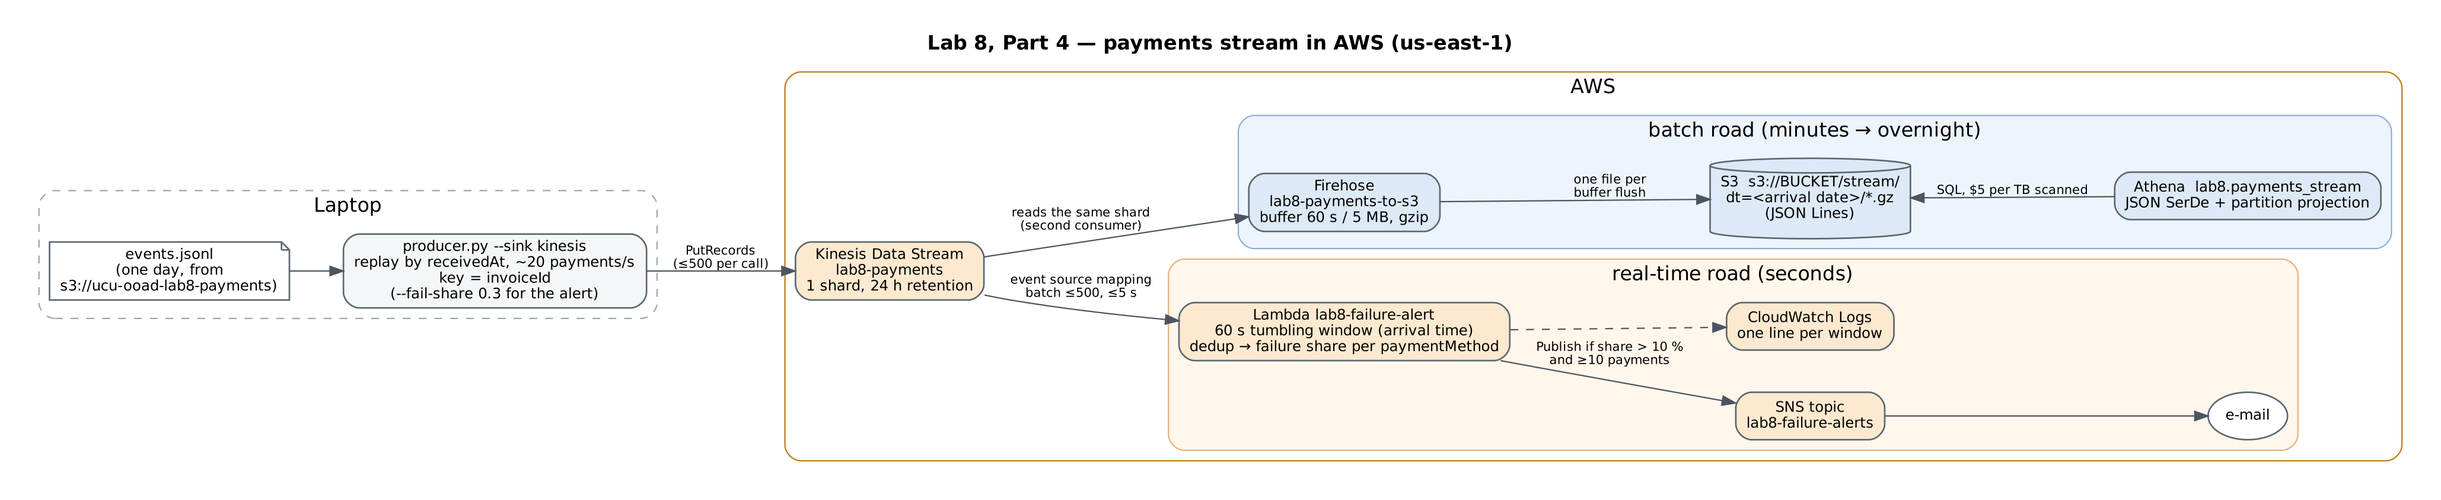
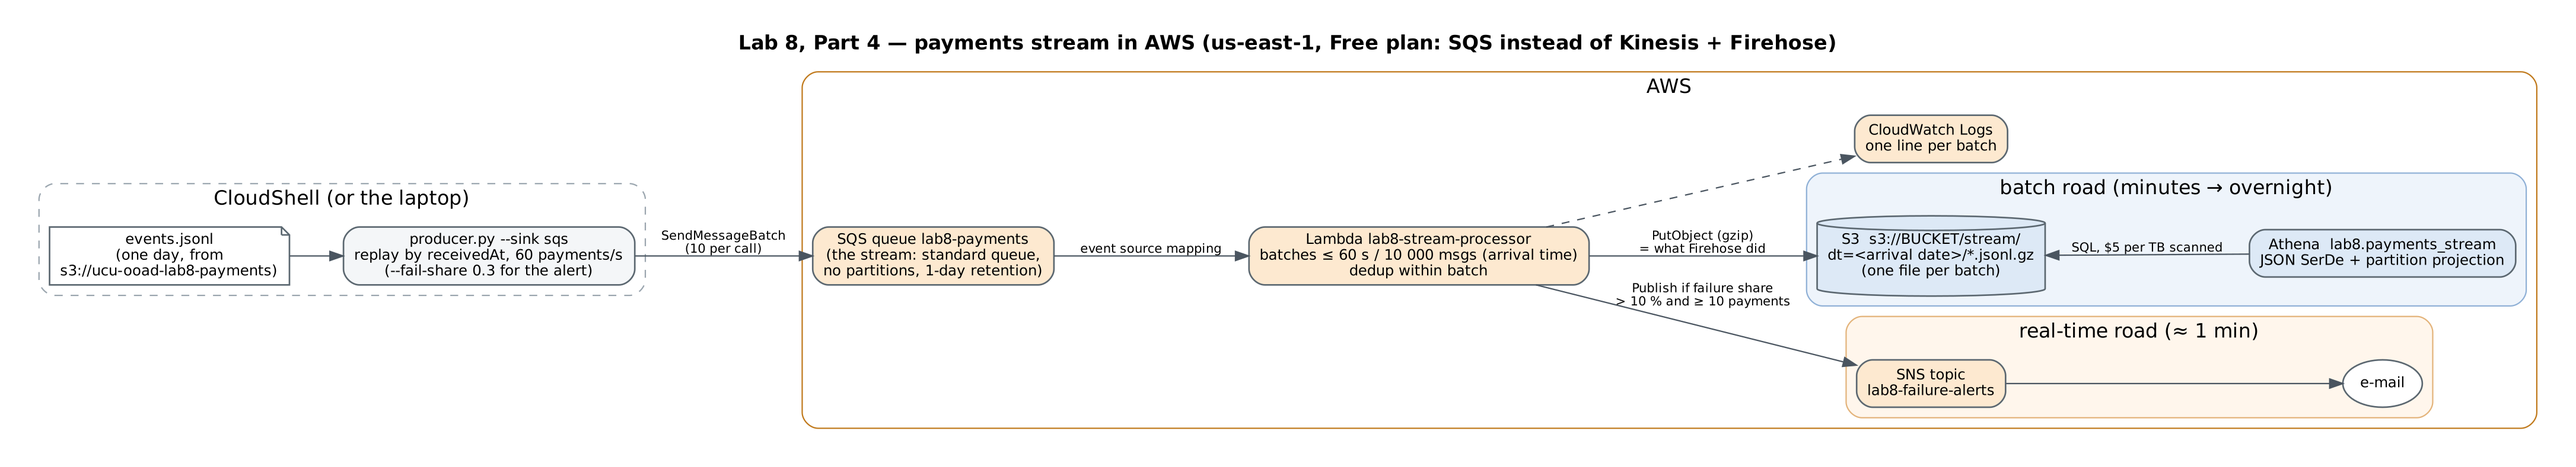
Lab 8: Part 3 and Part 4 results, Free-plan pipeline diagram

Changed region(s): [[0.0, 0.0608, 0.9951, 0.7605], [0.311, 0.7605, 0.9951, 0.943]]

diff --git a/docs/LAB8.md b/docs/LAB8.md
@@ -1,7 +1,7 @@
 # Lab 8 — Big Data on AWS: the Uklon example
 
 Two roads for the same data: **batch** (Athena + Glue over S3, answers overnight) and **stream**
-(Redpanda locally, Kinesis in the cloud, answers in seconds). Code: [`lab8/`](../lab8/).
+(Redpanda locally, SQS + Lambda in the cloud, answers in seconds). Code: [`lab8/`](../lab8/).
 Lab 8 runs in **us-east-1** (the dataset bucket is there and copying inside one region is free),
 not in eu-central-1 like the Spry stack.
 
@@ -12,8 +12,8 @@ Numbers marked _▢_ come from our own run and are filled in after it; everythin
 | Part | Files |
 |---|---|
 | 2 — batch | `lab8/athena/setup.sh` (own bucket + S3→S3 copy), `lab8/athena/sql/01…16_*.sql`, `lab8/athena/run_athena.py` (runs them, saves CSV + run time + Data scanned to `lab8/athena/results/`), `lab8/athena/crawler.sh` (Way B) |
-| 3 — local stream | `lab8/docker-compose.yml` (Redpanda + Console + `payments` topic, 3 partitions), `lab8/producer.py`, `lab8/consumer.py`, `lab8/compare_windows.py` |
-| 4 — cloud stream | `lab8/cloud/up.sh` / `down.sh`, `lab8/cloud/alert_lambda.py`, `lab8/cloud/sql/*.sql`, diagram [`docs/lab8/part4-pipeline.png`](lab8/part4-pipeline.png) (source `.dot`) |
+| 3 — local stream | `lab8/docker-compose.yml` (Redpanda + Console + `payments` topic, 3 partitions), `lab8/producer.py`, `lab8/consumer.py`, `lab8/compare_windows.py`, **`lab8/run_part3.py`** (all four experiments in one run → `lab8/data/part3/`) |
+| 4 — cloud stream | `lab8/cloud/up.sh` / `down.sh` + `stream_lambda.py` (Free plan: SQS → Lambda → S3 + SNS), `lab8/cloud/up-kinesis.sh` / `down-kinesis.sh` + `kinesis_alert_lambda.py` (the diagram's Kinesis + Firehose version, needs the Paid plan), `lab8/cloud/sql/*.sql`, **`lab8/run_part4.py`** (up → produce → Athena → down), diagram [`docs/lab8/part4-pipeline.png`](lab8/part4-pipeline.png) |
 
 ## Run sheet
 
@@ -31,14 +31,10 @@ BUCKET=$BUCKET bash lab8/athena/crawler.sh                  # Way B, prints both
 mkdir -p lab8/data
 aws s3 cp s3://ucu-ooad-lab8-payments/payments/dt=2026-10-01/events.jsonl lab8/data/ --no-sign-request
 docker compose -f lab8/docker-compose.yml up -d             # Console: http://localhost:8080
-python lab8/consumer.py --state lab8/data/state.json        # terminal 1
-python lab8/producer.py lab8/data/events.jsonl              # terminal 2 (~27 min for the whole day)
+python lab8/run_part3.py                                    # all 4 experiments, ~11 min (Docker running)
 
-# Part 4
-BUCKET=$BUCKET EMAIL=you@example.com bash lab8/cloud/up.sh
-python lab8/producer.py lab8/data/events.jsonl --sink kinesis --start 08:00 --max-events 20000
-python lab8/athena/run_athena.py --bucket $BUCKET --dir cloud/sql
-bash lab8/cloud/down.sh                                     # do not forget: shard hours
+# Part 4 (we ran it in AWS CloudShell; creates, uses and deletes everything, ~5 min)
+python lab8/run_part4.py --bucket $BUCKET --email you@example.com
 ```
 
 ---
@@ -189,40 +185,48 @@ payment land in one partition in order; `acks=all` + idempotent producer. `--fai
 30 % of successful payments (chosen by a stable hash of `invoiceId`) into failures.
 
 **Consumer** (`consumer.py`), per message: drop exact duplicates (`invoiceId|status|modifiedDate`
-seen before) → put into the one-minute window of **event time** (`modifiedDate`) → watermark = the
-newest event time seen → close windows whose end + 120 s is behind the watermark → print
+seen before) → put into the one-minute window of **event time** (`modifiedDate`) → update the
+**watermark** → close windows whose end + 120 s is behind the watermark → print
 failure / (success + failure) per `paymentMethod`, **ALERT** above 10 % (only with ≥ 10 final
 payments in that cell, otherwise one failure out of three reads as 33 %) → an event whose window
 is already closed is **late** and is rejected (counted). Offsets are committed by the consumer
 itself, on graceful stop and on rebalance.
 
-### Experiments — what to run and what we saw
+**The watermark is per partition** — the newest event time seen in each partition, and the
+overall watermark is their minimum (as in Flink). We learned this the hard way: our first version
+used one global maximum, and after a pause the consumer fetched a big batch from one partition, the
+watermark jumped minutes ahead and most events of the other two partitions were rejected as "late"
+(9 781 of 15 000). A partition that has not delivered anything yet holds the watermark at 0.
 
-1. **Stop for a minute and start again.** Ctrl+C the consumer (`--state lab8/data/state.json`):
-   it saves the open windows and the dedup set and commits its offsets. The producer keeps writing;
-   the Console shows the group's lag growing. Restart: it resumes from the committed offsets, the
-   lag drops to 0 and the final `TOTAL received` equals what the producer sent _▢_. No events lost,
-   because Kafka/Redpanda keeps a log and a consumer only moves a pointer in it. (Without `--state`
-   the log is still complete, but the counts of windows that were open at the stop are printed as
-   *partial* — the in-memory state is what a crash loses; Flink solves this with checkpoints of
-   state + offsets together.)
-2. **Two consumers in one group.** `python lab8/consumer.py` in two terminals, same `--group`.
-   Each prints `# assigned partitions [...]`: 3 partitions split 2 + 1 _▢_ (Console → Consumer
-   Groups shows the same). Each consumer now sees only its payments, so its windows hold about half
-   of the numbers; a correct global share would need a second aggregation step. Stop one — its
-   partitions move to the other after a rebalance. A third consumer still works; a fourth would be
-   idle: parallelism ≤ number of partitions.
-3. **30 % failures.** `producer.py … --fail-share 0.3`: the failure share jumps from ~6 % (Part 2:
-   6.02 %) to about 34 % (0.06 + 0.3 × 0.94), _▢_ in our run, and an `ALERT` line follows every closed window for every method
-   _▢_.
-4. **No waiting for late events.** Same topic, a fresh group, `--lateness 0 --out lateness0.csv`,
-   compared with a run with `--lateness 120 --out lateness120.csv` via `compare_windows.py`.
-   Rejected as late: _▢_ events with 120 s vs _▢_ with 0 s. Windows close as soon as the next minute
-   starts, so every event delayed past its window end is dropped: a few payments disappear from
-   _▢_ of _▢_ windows, and in a cell with 5–10 payments one missing failure moves the share by
-   10–20 points — an alert can appear or vanish. Even with 120 s, events 2–10 min late are rejected:
-   the waiting time is a trade-off between **latency** (results 2 min later) and **completeness**.
-   The batch road in Part 2 has no such trade-off — it sees every late event.
+### Experiments — what we ran and what we saw (`python lab8/run_part3.py`, output in `lab8/data/part3/`)
+
+1. **Stop for a minute and start again.** After 90 s the consumer (`--state`) was stopped: it
+   saved its open windows and dedup set and committed its offsets. The producer kept writing, and the
+   group's lag grew **919 → 1 827 → 2 739 → 3 651** messages over the next 60 s (~61 events/s, spread
+   evenly over the 3 partitions: `[1219, 1260, 1172]`). After the restart the consumer caught up,
+   the lag went back to **0**, and its total is **15 000 received = 15 000 sent**: nothing lost,
+   because Redpanda keeps the log and a consumer only moves its pointer in it. (Without `--state`
+   the log is still complete, but the counts of windows open at the stop would be printed as
+   *partial*: in-memory state is what a crash loses; Flink checkpoints state and offsets together.)
+   Also in the total: 151 duplicates dropped, 212 events (1.4 %) rejected as late — events more than
+   2 min late, close to the dataset's 2 % late events, of which part are within 2 min.
+2. **Two consumers in one group.** Both joined before data arrived; the group split the
+   partitions **[0, 1] / [2]**. With live data, A processed **4 137** events and B **1 863**
+   (6 000 sent). When B stopped, a rebalance gave A all three: `assigned partitions [0, 1, 2]`. Each
+   consumer sees only its payments, so its windows hold part of the numbers; a correct global share
+   would need a second aggregation step. Parallelism ≤ partitions: a fourth consumer would be idle.
+3. **30 % failures.** The producer turned **1 342** successful payments into failures. Failure share
+   went from ~6 % (Part 2: 6.02 %) to about 34 % (0.06 + 0.3 × 0.94; Part 4 measured 32–35 %), and
+   the consumer printed **194 ALERT lines** over 164 windows, against **48** without the injected
+   failures. Those 48 are noise: a cell with 13 card payments and 2 failures is already 15 %;
+   a real alert would need more payments per cell (a longer window or a higher `--min-count`).
+4. **No waiting for late events.** Same topic read twice, `--lateness 120` vs `--lateness 0`, compared
+   by `compare_windows.py`. Rejected as late: _▢_ events with 120 s vs _▢_ with 0 s; _▢_ of _▢_ windows
+   changed. Windows close as soon as the next minute starts, so every event delayed past its window
+   end is dropped, and in a cell with 5–10 payments one missing failure moves the share by 10–20
+   points — an alert can appear or vanish. Even with 120 s, events 2–10 min late are rejected: the
+   waiting time trades **latency** (results 2 min later) for **completeness**. The batch road in
+   Part 2 has no such trade-off — it sees every late event.
 
 **The dedup set grows without limit** (`dedup set size` in the summary ≈ every event of the day).
 In production it is Redis `SET key NX EX 3600` or Flink keyed state with a TTL: a duplicate only
@@ -235,38 +239,56 @@ traffic per hour, not by history.
 
 ![Part 4 pipeline](lab8/part4-pipeline.png)
 
-Same dataset, same producer (`--sink kinesis`). Kinesis Data Stream (1 shard) has two consumers:
-**Firehose** (batches of 60 s / 5 MB, gzip → `s3://BUCKET/stream/dt=<arrival date>/`) and a
-**Lambda** with a 60-second **tumbling window** (failure share per `paymentMethod`, `SNS` e-mail
-above 10 %). Athena reads Firehose's files through `lab8.payments_stream` (partition projection, so
-new files are queryable without a crawler). Screenshot: `cloud/sql/03_stream_failure_by_minute.sql`.
+**Kinesis and Firehose are not available on our AWS account.** It is on the AWS Free plan, and
+`CreateStream` answers `SubscriptionRequiredException` (the Free plan only offers part of the
+services; the Paid plan would be needed). So we rebuilt the diagram with Free-plan services, and the
+exact Kinesis version is in the repo too (`lab8/cloud/up-kinesis.sh`, `kinesis_alert_lambda.py`):
+
+| In the lab's diagram | What we ran instead | What it does the same, what not |
+|---|---|---|
+| Kinesis Data Stream | **SQS standard queue** `lab8-payments` | durable buffer between producer and consumers; but no partitions, no key, no order, and a message is **deleted** once processed (no replay) |
+| Firehose → S3 | the **Lambda writes each batch to S3** as one gzip JSON Lines file, `stream/dt=<arrival date>/` | same files, same Athena table; batching by Lambda (60 s), not by Firehose (60 s / 5 MB) |
+| Lambda (tumbling window) → SNS | the **same Lambda**: failure share per method over the batch → SNS e-mail | a batch ≈ up to 60 s of arrivals, like a processing-time tumbling window |
+| Athena | Athena, table `lab8.payments_stream` with partition projection | identical |
+
+**Run** (`run_part4.py`, in AWS CloudShell, 2026-10-30): the pipeline existed **5 min**. 10 000
+normal events, then 6 000 with 30 % of payments failed (573 successes turned into failures), sent
+at 60 payments/s (93 s in total). The Lambda wrote **10 files** to S3 and sent **8 alerts**: 5 for
+the batches with injected failures (card 30–38 %, apple_pay 29–34 %, google_pay 30–41 %) and 3 for
+normal batches just above the threshold (11 %). Athena over the stream's files:
+
+| run | apple_pay | card | google_pay | qr |
+|---|---|---|---|---|
+| normal | 6.4 % (55 of 861) | 6.2 % (111 of 1 787) | 5.8 % (34 of 583) | 4.4 % (3 of 68) |
+| 30 % injected failures | 33.2 % (162 of 488) | 34.5 % (378 of 1 095) | 34.8 % (125 of 359) | 31.6 % (12 of 38) |
+
+15 965 events of 5 319 payments arrived in S3; **118 exact duplicates** were still there, because
+the Lambda only deduplicates inside a batch and the queue delivered copies to different batches
+(`SELECT DISTINCT` in Athena removes them). SQS also ran several batches **at the same moment**
+(five at 13:20:55–57): it scales out pollers under load, so a "batch" is not one minute per
+consumer as a Kinesis shard would give.
 
 **Local Redpanda vs the cloud pipeline**
 
-| | Redpanda + Python (Part 3) | Kinesis + Firehose + Lambda (Part 4) |
+| | Redpanda + Python (Part 3) | SQS + Lambda + S3 (Part 4) |
 |---|---|---|
-| Running it | Docker on the laptop, we own the broker | managed; nothing to patch, but IAM roles for every arrow |
-| Unit of scale | partition (we chose 3) | shard: 1 MB/s or 1 000 records/s in, paid per hour |
-| Window | event time (`modifiedDate`) + watermark + 2 min lateness | **arrival time** in Kinesis (Lambda tumbling windows are processing-time): a late event is counted in the minute it arrived, never rejected — simpler, but the minute is "when we heard", not "when it happened" |
-| State | in the process (lost on crash unless `--state`) | Lambda passes `state` between invocations of one window only (≤ 1 MB); no dedup across windows |
-| Storage | the topic only | the topic for 24 h **and** S3 forever, queryable in SQL ~1–2 min after the event (Firehose buffer) |
+| Running it | Docker on the laptop, we own the broker | managed; nothing to patch, but an IAM role and policy for every arrow |
+| Log / replay | a log: two groups read the same data, a stopped consumer resumes from its offset | a queue: a message is deleted after processing, a second consumer needs a second queue (SNS fan-out); Kinesis would keep a 24 h log like Redpanda |
+| Order, key | per partition, key = `invoiceId` keeps a payment's events in order | no order, no key (FIFO queues have them, at lower throughput) |
+| Scale | partitions (3), consumers ≤ partitions | SQS + Lambda scale out automatically (several batches in parallel) |
+| Window | event time (`modifiedDate`) + per-partition watermark + 2 min lateness | **arrival time**: a batch is whatever arrived in ≤ 60 s; a late event is counted when it arrives, never rejected |
+| State, dedup | in the process (lost on crash unless `--state`) | none between invocations: dedup only inside a batch (118 duplicates got through) |
+| Storage | the topic only | S3 forever, queryable in SQL ~1–2 min after the event |
 | Alert | a line in the terminal | an e-mail via SNS |
-| Cost | 0 | see below |
-
-**Cost** (us-east-1 list prices, rounded): 1 shard × $0.015/h × _▢_ h ≈ _▢_; PUT payload units
-$0.014 per million → cents; Firehose $0.029 per GB ingested (each record rounded up to 5 KB) →
-~30 k records ≈ 0.15 GB ≈ $0.005; Lambda and SNS e-mail inside the free tier; S3 storage ≈ 0;
-Athena $5/TB with 10 MB minimum per query → < $0.01. Total ≈ _▢_ (Billing → Cost Explorer, filter
-by service, the day after). The shard hour is the only thing that keeps costing while idle — hence
-`down.sh` right after the screenshot.
+| Cost | 0 | **$0.00**: 1 600 SQS requests, 10 Lambda runs, 8 e-mails, < 2 MB scanned in Athena — all inside the Free plan. The Kinesis version would have cost 0.09 shard-hours × $0.015 ≈ $0.001 + Firehose ~$0.005 |
 
 ---
 
 ## For the class discussion
 
 - **Event time vs processing time.** The Redpanda consumer uses event time (`modifiedDate`); a late
-  event goes to its true minute while the window is open and is rejected after. The Lambda uses
-  arrival time; the Firehose partition `dt` is also arrival time. Batch SQL can always group by
+  event goes to its true minute while the window is open and is rejected after. The cloud Lambda
+  uses arrival time (its batch); the S3 partition `dt` is also arrival time. Batch SQL can always group by
   event time because it runs after all events arrived.
 - **JSON and Parquet both.** JSON is the raw, immutable record exactly as received — the source of
   truth to re-process when a bug or a new question appears. Parquet is the curated, deduplicated,
@@ -274,17 +296,18 @@ by service, the day after). The shard hour is the only thing that keeps costing 
 - **Nightly batch vs seconds.** Seconds when the decision is taken now and loses value fast (surge,
   matching, fraud, "payments are failing" alerts). Batch when the answer feeds a human or a model
   (reports, turnover, retraining) and completeness matters more than freshness.
-- **Managed vs own.** Kinesis/Firehose/Glue/Flink: no brokers, disks, upgrades or rebalancing to run;
+- **Managed vs own.** Kinesis/Firehose/SQS/Lambda/Glue/Flink: no brokers, disks, upgrades or rebalancing to run;
   scaling and retention are settings. The price: per-hour/per-GB billing that grows linearly, less
   control (Lambda windows only in processing time, 1 MB state), lock-in. Own Kafka + Spark wins at
   large steady volume with a team to run it; for a team of four, managed wins.
 
 ## Submission (5 files + online text)
 
-1. `part2-athena.zip` — `lab8/athena/sql/` + `lab8/athena/results/` (CSV + `stats.md`), screenshots.
-2. `part3-consumer-output.txt` — consumer output of the four experiments + `compare_windows.py` output.
-3. `part4-pipeline.png` — the diagram.
-4. `part4-athena.png` — screenshot of `03_stream_failure_by_minute` in the Athena console.
-5. `producer.py` — the producer (both sinks).
+1. `part2-athena.zip` — `lab8/athena/sql/` + `lab8/athena/results/` (CSV + `stats.md`) + `lab8/data/crawler.txt`.
+2. `part3-consumer-output.zip` — `lab8/data/part3/` (every consumer and producer output + `SUMMARY.txt`).
+3. `part4-pipeline.png` — the diagram (`docs/lab8/part4-pipeline.png`).
+4. `part4-athena.png` — screenshot of the Athena query over `lab8.payments_stream` (+ the alert e-mail).
+5. `producer.py` — the producer (Redpanda, SQS and Kinesis sinks).
 
-Online text: the answers above (Part 1, scale, JSON vs Parquet, DISTINCT, Part 4 comparison + cost).
+Online text: the answers above (Part 1, scale, JSON vs Parquet, DISTINCT, Glue, Part 3 experiments,
+Part 4: why SQS, comparison and cost).
